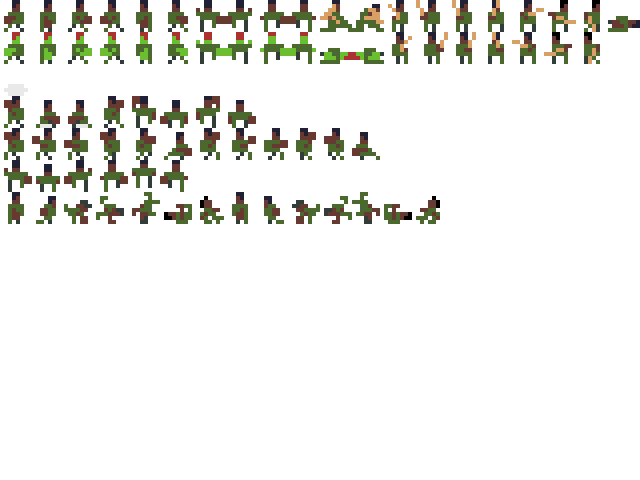
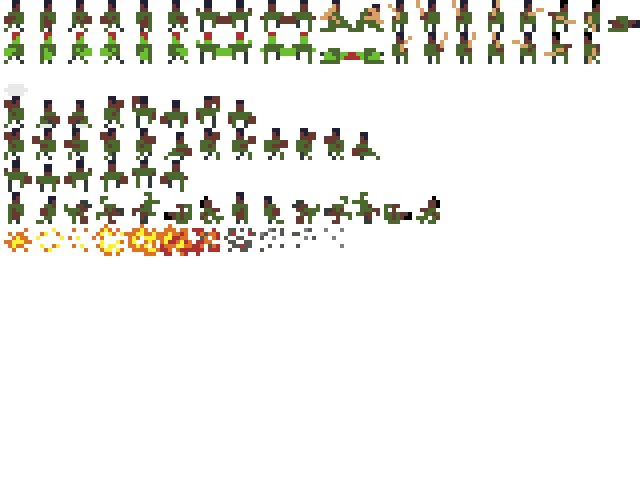
Add explosions

Changed region(s): [[0.0, 0.4688, 0.5312, 0.5312]]

diff --git a/src/entities/Plane.js b/src/entities/Plane.js
@@ -17,6 +17,13 @@ class Plane extends Phaser.Sprite {
     this.state = new State("stopped");
     game.physics.enable(this);
 
+    this.frame = 5;
+    const animSpeed = 10;
+    this.animations.add("idle", [5], animSpeed, true);
+    this.animations.add("run", [8,9], animSpeed, true);
+    this.animations.add("flying", [5, 6, 7, 6, 6], animSpeed, true);
+    this.animations.play("run");
+
     this.body.drag.set(30);
     this.body.maxVelocity.set(120);
     this.body.bounce.setTo(0.9);
@@ -24,10 +31,10 @@ class Plane extends Phaser.Sprite {
     const shadow = game.add.sprite(0, 0, "mediums");
     this.addChild(shadow);
 
-    shadow.frame = 0;
+    shadow.frame = 5;
     shadow.scale.set(0.6);
     shadow.tint = 0x000000;
-    shadow.alpha = 0.4;
+    shadow.alpha = 0.3;
 
     this.shadow = shadow;
   }
@@ -46,6 +53,8 @@ class Plane extends Phaser.Sprite {
     case "stopped":
       if (controls.justPressed) {
         this.state.set("taxiing");
+        this.animations.play("run");
+        break;
       }
       this.shadow.visible = false;
       break;
@@ -53,6 +62,7 @@ class Plane extends Phaser.Sprite {
     case "taxiing":
       if (vel > 100) {
         this.state.set("flying");
+        this.animations.play("flying");
         this.alt = 0.8;
         controls.pitch = 0;
         break;
@@ -80,6 +90,7 @@ class Plane extends Phaser.Sprite {
         this.alt = Math.min(1, Math.max(0, this.alt));
         if (this.alt === 0) {
           this.state.set("touchdown");
+          this.animations.play("run");
         }
       }
 
@@ -96,6 +107,7 @@ class Plane extends Phaser.Sprite {
 
       if (vel < 0.1) {
         this.state.set("stopped");
+        this.animations.play("idle");
       }
       break;
 

diff --git a/src/entities/Zombie.js b/src/entities/Zombie.js
@@ -14,6 +14,7 @@ class Zombie extends Phaser.Sprite {
     super(game, xtile * 32, ytile * 32, "peeps");
 
     this.bmax = bmax;
+    this.state = new State("idle");
     this.lastPathSet = Date.now();
 
     this.shadow = game.add.sprite(this.x, this.y + 8, "peeps");
@@ -89,7 +90,6 @@ class Zombie extends Phaser.Sprite {
       return;
     }
     this.lastPathSet = now;
-
     // FIXME: hack for chasing player at close range
     if (this.isClose && path.length > 1) {
       path = path.slice(1);
@@ -122,6 +122,11 @@ class Zombie extends Phaser.Sprite {
 
   }
 
+  goRando () {
+    //console.log("gorand")
+    //this.bmax.goRandoRadius(this, 10);
+  }
+
   update () {
     const {animations} = this;
     const current = this.state.get();
@@ -130,6 +135,7 @@ class Zombie extends Phaser.Sprite {
       if (this.state.isFirst()) {
         animations.play("idle");
       }
+      this.goRando();
       break;
     case "walking":
       if (this.hurtPause-- < 0) {

diff --git a/src/screens/Splash.js b/src/screens/Splash.js
@@ -5,6 +5,7 @@ import Title from "../Title";
 import Items from "../Items";
 import DayTime from "../DayTime";
 import data from "../data";
+import Explosion from "../entities/Explosion";
 
 const startWiths = [
   [{item: "wood", amount: 2, unlocked: false, question: false}],
@@ -28,6 +29,17 @@ class Splash extends Phaser.State {
 
     const title = Title(game, "bmax!", 36, 100, 112).font;
     const start = Title(game, "Start with?", 9, 130, 210, true).font;
+
+    const x = 160;
+    const y = 100;
+    Array.from(new Array(40), () => {
+      setTimeout(() => {
+        new Explosion(game,
+          x + Math.random() * 120 - 60,
+          y + Math.random() * 60 - 30
+        );
+      }, Math.random() * 800);
+    });
 
     this.starts = startWiths.map(([item], i) => {
       const xo = 50;

diff --git a/src/entities/Player.js b/src/entities/Player.js
@@ -317,8 +317,8 @@ class Player extends Phaser.Sprite {
         xx = xx / Math.sqrt(2);
         yy = yy / Math.sqrt(2);
       }
-      this.x += xx * (1 - (DayTime.percent * DayTime.percent));
-      this.y += yy * (1 - (DayTime.percent * DayTime.percent));
+      this.x += xx * 1;//(1 - (DayTime.percent * DayTime.percent));
+      this.y += yy * 1;//(1 - (DayTime.percent * DayTime.percent));
 
       return Phaser.Math.distance(this.x, this.y, c.x * 32, c.y * 32) < walkSpeed;
     });

diff --git a/src/entities/Explosion.js b/src/entities/Explosion.js
@@ -1,0 +1,14 @@
+const Phaser = window.Phaser;
+
+class Explosion extends Phaser.Sprite {
+
+  constructor (game, x, y) {
+    super(game, x, y, "peeps");
+    this.animations.add("explode", [140, 141, 142, 143, 144, 145, 146, 147, 148, 149, 150], 15);
+    game.add.existing(this);
+    this.animations.play("explode");
+    this.animations.currentAnim.onComplete.add(() => this.destroy(), this);
+  }
+}
+
+export default Explosion;

diff --git a/src/entities/Bullet.js b/src/entities/Bullet.js
@@ -1,4 +1,5 @@
 const Phaser = window.Phaser;
+import Explosion from "./Explosion";
 
 class Bullet extends Phaser.Sprite {
 
@@ -76,6 +77,7 @@ class Bullet extends Phaser.Sprite {
         this.smoke.destroy();
       }, 5000);
       this.destroy();
+      new Explosion(game, target.x + 16, target.y + 16);
       game.camera.shake(0.01, 200);
       target.health && target.health.damage(2, this);
     }

diff --git a/src/screens/World.js b/src/screens/World.js
@@ -265,6 +265,12 @@ void main(void) {
     }
   }
 
+  goRandoRadius (e, radius) {
+    // Figure out radious thign
+    const {x, y} = this.world.findEmptySpot();
+    this.world.makePath(e, x, y);
+  }
+
   killZombie () {
     const {player, inventory} = this;
     const holding = inventory.holding();

diff --git a/README.md b/README.md
@@ -22,7 +22,6 @@
   * on died, show progress hp
   * on died, "surived for" time.
 * explode vehicle when leave
-* vehicle stays after death
 * reset unlocks for testing
 * stats on splash
 * Move blocks and items from flyweight to actual objects
